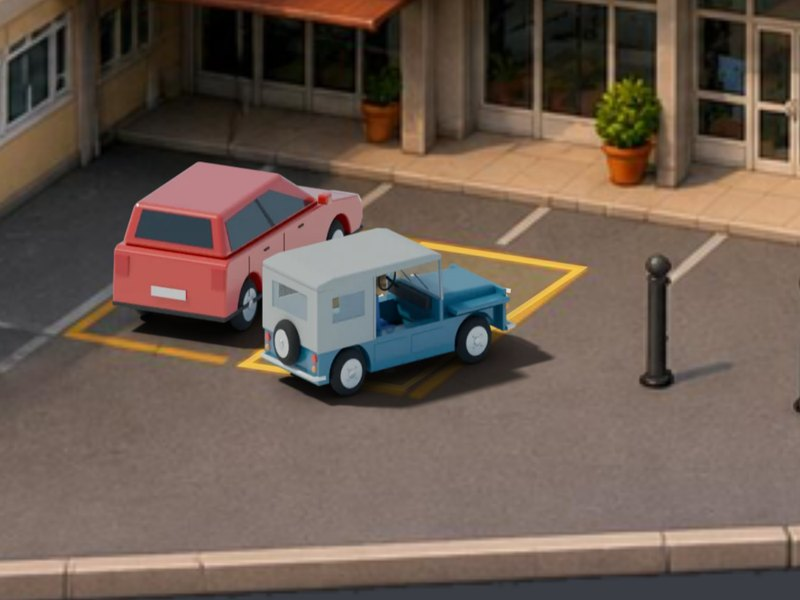
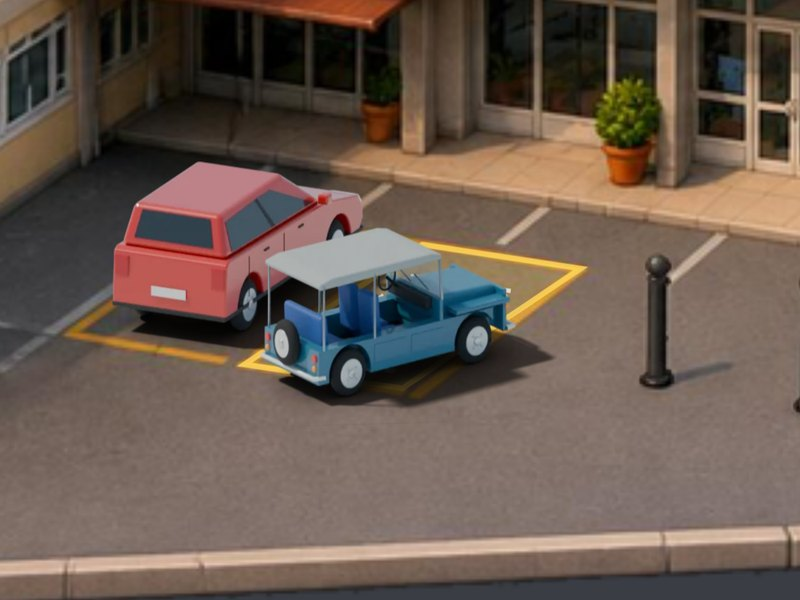
Parcheggio: Moke aperta dietro e sui lati, render su GPU
Tolti telo posteriore, fiancate e lunotto della capote: resta il tetto di
tela sui due archi, con i sedili in vista come richiesto. Lo script mette
Cycles sulla GPU quando nelle Preferenze ce n'è una attiva (OptiX: 64
fotogrammi in 40 s invece di quasi 7 minuti). Gli sprite ora portano nel
percorso una versione presa dal contenuto, così il browser non resta con
quelli vecchi.

Changed region(s): [[0.3125, 0.42, 0.4688, 0.6], [0.4375, 0.66, 0.5, 0.69]]

diff --git a/meucci-giochi/js/veicoli-sprite.js b/meucci-giochi/js/veicoli-sprite.js
@@ -1,4 +1,4 @@
 /* Generato da blender/impacchetta.py: non modificare a mano.
  * Per ogni veicolo: foglio WebP, pixel dell'immagine ortografica per metro, angoli resi e,
  * per fotogramma, [x, y, larghezza, altezza, ancoraX, ancoraY] (l'ancora è l'origine a terra). */
-window.VEICOLI_SPRITE = {"auto-bianca":{"img":"img/veicoli/auto-bianca.webp","pxm":95.92592592592592,"angoli":[1.5708],"fotogrammi":[[0,0,427,259,169.83,186.85]]},"auto-blu":{"img":"img/veicoli/auto-blu.webp","pxm":95.92592592592592,"angoli":[-0.51],"fotogrammi":[[0,0,465,227,215.83,154.85]]},"auto-rossa":{"img":"img/veicoli/auto-rossa.webp","pxm":95.92592592592592,"angoli":[-1.5708],"fotogrammi":[[0,0,395,219,174.83,146.85]]},"moke":{"img":"img/veicoli/moke.webp","pxm":96.04166666666667,"angoli":[0.0,0.09817,0.19635,0.29452,0.3927,0.49087,0.58905,0.68722,0.7854,0.88357,0.98175,1.07992,1.1781,1.27627,1.37445,1.47262,1.5708,1.66897,1.76715,1.86532,1.9635,2.06167,2.15984,2.25802,2.35619,2.45437,2.55254,2.65072,2.74889,2.84707,2.94524,3.04342,3.14159,3.23977,3.33794,3.43612,3.53429,3.63247,3.73064,3.82882,3.92699,4.02517,4.12334,4.22152,4.31969,4.41786,4.51604,4.61421,4.71239,4.81056,4.90874,5.00691,5.10509,5.20326,5.30144,5.39961,5.49779,5.59596,5.69414,5.79231,5.89049,5.98866,6.08684,6.18501],"fotogrammi":[[0,0,394,226,168.68,168.43],[394,0,388,233,164.68,170.43],[782,0,381,231,160.68,172.43],[1163,0,371,233,155.68,174.43],[1534,0,360,238,150.68,175.43],[0,238,342,240,140.68,177.43],[342,238,331,240,133.68,177.43],[673,238,321,240,123.68,177.43],[994,238,310,240,114.68,177.43],[1304,238,304,239,110.68,177.43],[1608,238,302,239,110.68,176.43],[0,478,300,233,110.68,174.43],[300,478,312,238,110.68,175.43],[612,478,326,239,113.68,176.43],[938,478,347,237,122.68,177.43],[1285,478,367,240,131.68,177.43],[1652,478,387,240,141.68,177.43],[0,718,402,240,147.68,177.43],[402,718,418,239,155.68,176.43],[820,718,429,237,159.68,174.43],[1249,718,438,235,164.68,172.43],[0,958,447,233,169.68,170.43],[447,958,453,231,172.68,168.43],[900,958,455,229,173.68,166.43],[1355,958,455,226,173.68,163.43],[0,1191,450,223,171.68,160.43],[450,1191,443,220,167.68,157.43],[893,1191,440,216,168.68,153.43],[1333,1191,444,216,168.68,153.43],[0,1414,449,217,170.68,154.43],[449,1414,455,212,173.68,154.43],[904,1414,455,210,173.68,154.43],[1359,1414,453,208,172.68,154.43],[0,1631,448,210,169.68,154.43],[448,1631,438,217,164.68,154.43],[886,1631,430,216,160.68,153.43],[1316,1631,421,215,157.68,152.43],[0,1848,407,215,151.68,152.43],[407,1848,388,214,142.68,151.43],[795,1848,371,213,134.68,150.43],[1166,1848,349,212,123.68,149.43],[1515,1848,331,210,117.68,147.43],[0,2063,316,209,114.68,146.43],[316,2063,303,207,112.68,144.43],[619,2063,301,209,109.68,146.43],[920,2063,303,210,109.68,147.43],[1223,2063,308,211,112.68,148.43],[1531,2063,321,213,124.68,150.43],[0,2276,329,214,131.68,151.43],[329,2276,342,215,140.68,152.43],[671,2276,357,215,148.68,152.43],[1028,2276,371,216,155.68,153.43],[1399,2276,381,216,160.68,153.43],[0,2492,389,217,165.68,154.43],[389,2492,397,217,170.68,154.43],[786,2492,399,217,172.68,154.43],[1185,2492,404,217,177.68,154.43],[1589,2492,402,217,177.68,154.43],[0,2709,398,216,177.68,153.43],[398,2709,396,216,177.68,153.43],[794,2709,398,220,177.68,157.43],[1192,2709,401,223,177.68,160.43],[1593,2709,403,226,177.68,163.43],[0,2935,398,222,171.68,166.43]]}};
+window.VEICOLI_SPRITE = {"auto-bianca":{"img":"img/veicoli/auto-bianca.webp?v=394d47a6","pxm":95.92592592592592,"angoli":[1.5708],"fotogrammi":[[0,0,427,259,169.83,186.85]]},"auto-blu":{"img":"img/veicoli/auto-blu.webp?v=1f2a3648","pxm":95.92592592592592,"angoli":[-0.51],"fotogrammi":[[0,0,465,227,215.83,154.85]]},"auto-rossa":{"img":"img/veicoli/auto-rossa.webp?v=be3c753f","pxm":95.92592592592592,"angoli":[-1.5708],"fotogrammi":[[0,0,395,219,174.83,146.85]]},"moke":{"img":"img/veicoli/moke.webp?v=1f4c3cf4","pxm":96.04166285031387,"angoli":[0.0,0.09817,0.19635,0.29452,0.3927,0.49087,0.58905,0.68722,0.7854,0.88357,0.98175,1.07992,1.1781,1.27627,1.37445,1.47262,1.5708,1.66897,1.76715,1.86532,1.9635,2.06167,2.15984,2.25802,2.35619,2.45437,2.55254,2.65072,2.74889,2.84707,2.94524,3.04342,3.14159,3.23977,3.33794,3.43612,3.53429,3.63247,3.73064,3.82882,3.92699,4.02517,4.12334,4.22152,4.31969,4.41786,4.51604,4.61421,4.71239,4.81056,4.90874,5.00691,5.10509,5.20326,5.30144,5.39961,5.49779,5.59596,5.69414,5.79231,5.89049,5.98866,6.08684,6.18501],"fotogrammi":[[0,0,394,231,168.68,168.43],[394,0,390,233,165.68,170.43],[784,0,381,235,160.68,172.43],[1165,0,373,237,157.68,174.43],[1538,0,362,238,152.68,175.43],[0,238,347,239,145.68,176.43],[347,238,333,239,135.68,176.43],[680,238,323,239,125.68,176.43],[1003,238,315,239,119.68,176.43],[1318,238,308,239,114.68,176.43],[1626,238,304,237,112.68,174.43],[0,477,299,236,109.68,173.43],[299,477,311,237,109.68,174.43],[610,477,324,238,111.68,175.43],[934,477,346,239,122.68,176.43],[1280,477,366,239,131.68,176.43],[1646,477,385,239,141.68,176.43],[0,716,401,239,147.68,176.43],[401,716,416,238,155.68,175.43],[817,716,427,237,160.68,174.43],[1244,716,436,235,164.68,172.43],[0,955,444,233,169.68,170.43],[444,955,450,231,172.68,168.43],[894,955,451,229,173.68,166.43],[1345,955,450,226,173.68,163.43],[0,1188,447,223,171.68,160.43],[447,1188,441,220,169.68,157.43],[888,1188,435,216,167.68,153.43],[1323,1188,440,216,168.68,153.43],[0,1411,445,217,170.68,154.43],[445,1411,450,217,173.68,154.43],[895,1411,451,217,173.68,154.43],[1346,1411,450,217,172.68,154.43],[0,1628,444,217,169.68,154.43],[444,1628,436,217,164.68,154.43],[880,1628,427,216,160.68,153.43],[1307,1628,417,215,156.68,152.43],[0,1845,405,215,151.68,152.43],[405,1845,387,214,142.68,151.43],[792,1845,369,213,134.68,150.43],[1161,1845,348,212,123.68,149.43],[1509,1845,329,210,115.68,147.43],[0,2060,314,209,112.68,146.43],[314,2060,302,207,111.68,144.43],[616,2060,304,209,112.68,146.43],[920,2060,307,210,113.68,147.43],[1227,2060,313,211,117.68,148.43],[1540,2060,323,213,126.68,150.43],[0,2273,331,214,133.68,151.43],[331,2273,344,215,142.68,152.43],[675,2273,376,215,167.68,152.43],[1051,2273,383,216,167.68,153.43],[1434,2273,386,216,165.68,153.43],[0,2489,391,217,167.68,154.43],[391,2489,397,217,170.68,154.43],[788,2489,399,217,172.68,154.43],[1187,2489,401,217,174.68,154.43],[1588,2489,402,217,177.68,154.43],[0,2706,398,216,177.68,153.43],[398,2706,396,216,177.68,153.43],[794,2706,398,220,177.68,157.43],[1192,2706,400,223,175.68,160.43],[1592,2706,399,226,173.68,163.43],[0,2932,397,229,170.68,166.43]]}};

diff --git a/meucci-giochi/index.html b/meucci-giochi/index.html
@@ -20,7 +20,7 @@
 
     <div class="carte">
       <a class="carta" href="parcheggio.html">
-        <img src="img/parcheggio.jpg?v=2" alt="Il piazzale del Meucci con la Moke vicino al posto giallo" width="800" height="600">
+        <img src="img/parcheggio.jpg?v=3" alt="Il piazzale del Meucci con la Moke vicino al posto giallo" width="800" height="600">
         <div class="carta-testo">
           <h2>Parcheggia la Moke</h2>
           <p>Tre livelli: portala nel posto riservato senza urtare auto e paletti. L'ultimo va fatto in retromarcia.</p>

diff --git a/meucci-giochi/js/parcheggio.js b/meucci-giochi/js/parcheggio.js
@@ -40,7 +40,7 @@
   const SPRITE = {};
   Object.entries(window.VEICOLI_SPRITE).forEach(([nome, d]) => {
     SPRITE[nome] = new Image();
-    SPRITE[nome].src = d.img + "?v=1";
+    SPRITE[nome].src = d.img;
   });
 
   /* ---------- il piazzale (metri a terra) ---------- */

diff --git a/meucci-giochi/parcheggio.html b/meucci-giochi/parcheggio.html
@@ -50,7 +50,7 @@
     </div>
   </nav>
 
-  <script src="js/veicoli-sprite.js?v=1"></script>
-  <script src="js/parcheggio.js?v=8"></script>
+  <script src="js/veicoli-sprite.js?v=2"></script>
+  <script src="js/parcheggio.js?v=9"></script>
 </body>
 </html>

diff --git a/meucci-giochi/blender/veicoli.py b/meucci-giochi/blender/veicoli.py
@@ -204,7 +204,7 @@ MOKE_VERNICE = "#1f6e8e"   # azzurro petrolio della Moke del Meucci (foto del 20
 
 def moke(vernice=MOKE_VERNICE, fasi=("scocca", "frontale", "ruote", "interno", "capote")):
     """Mini Moke classica (serie portoghese anni '80), come quella del plesso: 3,05 × 1,30 m di scocca,
-    passo 2,03, capote grigia chiusa, sedili blu, bull bar bianco. Muso verso +X, guida a sinistra (+Y).
+    passo 2,03, capote grigia aperta sui lati e dietro, sedili blu, bull bar bianco. Muso verso +X, guida a sinistra (+Y).
     `fasi` permette di costruirla a pezzi per trovare in fretta quello che non va."""
     R = radice("Moke")
     C = materiale("Moke carrozzeria", srgb(vernice), rugosita=0.38, vernice=0.5)
@@ -311,18 +311,11 @@ def moke(vernice=MOKE_VERNICE, fasi=("scocca", "frontale", "ruote", "interno", "
             tubo(f"Moke tergi {y}", [(DAV - 0.01, y, 0.9), (DAV - 0.035, y + 0.3, 1.02)], 0.008, SCURO, R)
         tubo("Moke braccio specchio", [(DAV - 0.03, 0.64, 1.05), (DAV - 0.04, 0.8, 1.07)], 0.01, TELAIO, R)
         scatola("Moke specchio", DAV - 0.07, DAV - 0.03, 0.76, 0.9, 1.0, 1.16, SCURO, R, smusso=0.015)
-        # capote grigia chiusa: tetto, fiancate posteriori e retro col lunotto, aperta sulle porte davanti
-        prisma("Moke capote", [(-L2 - 0.02, 1.33), (DAV - 0.04, zt - 0.01), (DAV - 0.02, zt + 0.05), (DAV - 0.2, zt + 0.09), (-1.3, zt + 0.1), (-L2 - 0.04, zt + 0.05)],
+        # capote grigia aperta: solo il tetto di tela, retto da due archi; niente fiancate né telo dietro
+        prisma("Moke capote", [(-L2 + 0.02, 1.34), (DAV - 0.04, zt - 0.01), (DAV - 0.02, zt + 0.05), (DAV - 0.2, zt + 0.09), (-1.3, zt + 0.1), (-L2, zt + 0.05)],
                -0.67, 0.67, TELA, R, smusso=0.035, segmenti=3)
-        for s in (1, -1):
-            lato = prisma(f"Moke telo laterale {s}", [(-L2 - 0.02, 0.6), (-0.62, 0.6), (-0.62, zt), (-L2 - 0.02, 1.33)],
-                          s * 0.645 - 0.012, s * 0.645 + 0.012, TELA, R)
-            taglia(lato, scatola(f"Moke finestrino {s}", -1.3, -0.78, s * 0.645 - 0.1, s * 0.645 + 0.1, 0.92, 1.22, None, R))
-            scatola(f"Moke vetrino {s}", -1.3, -0.78, s * 0.645 - 0.004, s * 0.645 + 0.004, 0.92, 1.22, VETRO, R)
-            tubo(f"Moke montante {s}", [(-0.62, s * 0.66, 0.62), (-0.62, s * 0.66, zt + 0.02)], 0.018, TELAIO, R)
-        retro = scatola("Moke telo posteriore", -L2 - 0.03, -L2, -0.66, 0.66, 0.62, 1.34, TELA, R)
-        taglia(retro, scatola("Moke taglio lunotto", -L2 - 0.1, -L2 + 0.1, -0.42, 0.42, 0.92, 1.24, None, R))
-        scatola("Moke lunotto", -L2 - 0.02, -L2 - 0.01, -0.42, 0.42, 0.92, 1.24, VETRO, R)
+        for x in (-0.62, -1.44):
+            tubo(f"Moke arco {x}", [(x, -0.66, 0.62), (x, -0.66, zt + 0.02), (x, 0.66, zt + 0.02), (x, 0.66, 0.62)], 0.018, TELAIO, R)
     return R
 
 
@@ -430,6 +423,10 @@ def prepara_scena():
     sc = bpy.data.scenes.get(SCENA) or bpy.data.scenes.new(SCENA)
     bpy.context.window.scene = sc
     sc.render.engine = "CYCLES"
+    # GPU se nelle Preferenze ce n'è una attiva (qui OptiX: ~0,7 s a fotogramma contro 6,4 della CPU)
+    cp = bpy.context.preferences.addons["cycles"].preferences
+    if cp.compute_device_type != "NONE" and any(d.use and d.type != "CPU" for d in cp.devices):
+        sc.cycles.device = "GPU"
     sc.cycles.samples = 96
     sc.cycles.use_denoising = True
     sc.render.film_transparent = True

diff --git a/meucci-giochi/blender/impacchetta.py b/meucci-giochi/blender/impacchetta.py
@@ -8,6 +8,7 @@ La cartella contiene una sottocartella per veicolo (moke/, auto_rossa/, ...) con
 e un file ancora.txt: «x y px_per_m» del pixel dove cade l'origine del veicolo, poi gli angoli.
 Ogni fotogramma viene ritagliato sul contenuto (ombra compresa): l'ancora si sposta di conseguenza.
 """
+import hashlib
 import json
 import sys
 from pathlib import Path
@@ -60,7 +61,8 @@ def impacchetta(cartella):
     file = USCITA_IMG / f"{nome}.webp"
     foglio.save(file, "WEBP", quality=86, alpha_quality=90, method=6)
     print(f"{nome}: {len(angoli)} fotogrammi, foglio {foglio.width}×{foglio.height}, {file.stat().st_size / 1024:.0f} KB")
-    return nome, {"img": f"img/veicoli/{nome}.webp", "pxm": pxm, "angoli": [round(a, 5) for a in angoli], "fotogrammi": fotogrammi}
+    versione = hashlib.sha1(file.read_bytes()).hexdigest()[:8]   # cambia a ogni rigenerazione: niente cache vecchie
+    return nome, {"img": f"img/veicoli/{nome}.webp?v={versione}", "pxm": pxm, "angoli": [round(a, 5) for a in angoli], "fotogrammi": fotogrammi}
 
 
 def main():
